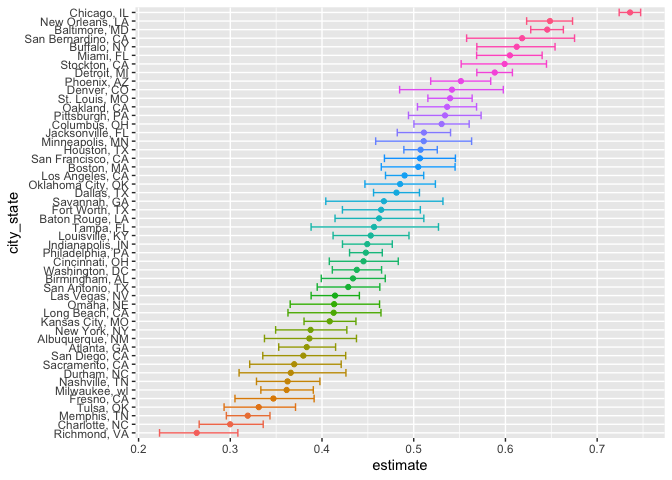
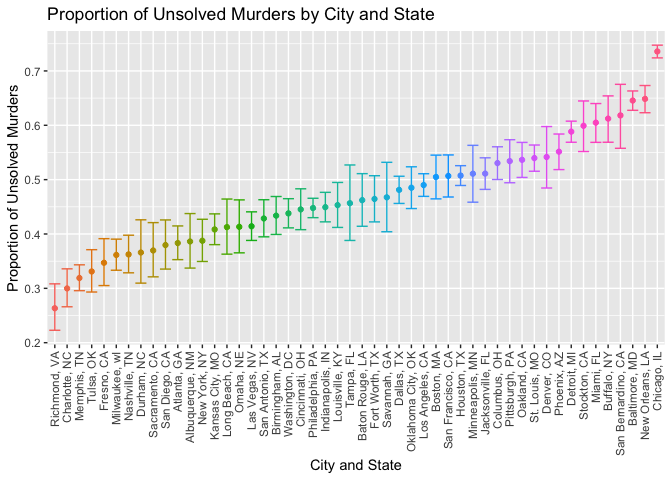
tidied code in problem 1 and 'unflipped' coordinates

diff --git a/p8105_hw5_lzs2109.md b/p8105_hw5_lzs2109.md
@@ -7,7 +7,7 @@ Louis Sharp
 library(tidyverse)
 ```
 
-### **Problem 1**
+### Problem 1
 
 ``` r
 homicide_df = read_csv("./data/homicide-data.csv") %>% 
@@ -62,13 +62,15 @@ bmore =
   homicide_df %>%
   filter(city_state == "Baltimore, MD") %>%
   group_by(status) %>% 
-  count()
+  count() %>% 
+  pivot_wider(names_from = "status", values_from = "n") %>% 
+  mutate(total = sum(solved, unsolved))
 
-bmore = prop.test(x = bmore$n[2], n = bmore$n[1] + bmore$n[2])
+bmore = prop.test(x = pull(bmore, unsolved), n = pull(bmore, total))
 
 bmore %>% 
   broom::tidy() %>% 
-  select(estimate, conf.low, conf.high)
+  select(estimate, starts_with("conf"))
 ```
 
     ## # A tibble: 1 × 3
@@ -76,68 +78,57 @@ bmore %>%
     ##      <dbl>    <dbl>     <dbl>
     ## 1    0.646    0.628     0.663
 
+There’s the Baltimore, MD proportion of unsolved homicides, along with
+lower and upper confidence intervals. We’ll use that code above in a
+more general form to make a function that can calculate this with any
+city in the homicide\_df dataframe below.
+
 ``` r
 unsolved_murders = function(location) {
   
   city = homicide_df %>% 
            filter(city_state == location) %>%
            group_by(status) %>% 
-           count()
+           count() %>% 
+           pivot_wider(names_from = "status", values_from = "n") %>% 
+           mutate(total = sum(solved, unsolved))
   
-  city = prop.test(x = city$n[2], n = city$n[1] + city$n[2])
+  city = prop.test(x = pull(city, unsolved), n = pull(city, total))
   
   city %>% 
     broom::tidy() %>% 
-    select(estimate, conf.low, conf.high)
+    select(estimate, starts_with("conf"))
   
 }
 
-unsolved_murders("Atlanta, GA")
+#unsolved_murders("Atlanta, GA")
+#unsolved_murders("San Francisco, CA")
 ```
 
-    ## # A tibble: 1 × 3
-    ##   estimate conf.low conf.high
-    ##      <dbl>    <dbl>     <dbl>
-    ## 1    0.383    0.353     0.415
+There’s the function, with a couple of tests commented out just to make
+sure it works on any given city in the data set. Now that we’ve done
+that, we need a list of all the cities in the data set that have the
+appropriate data so that we can iterate over that list of cities and get
+the same info for all of them in one call. Instead of having a vector
+just hanging out, we can nest the original homicide\_df. Also, we’ll
+have to remove Tulsa, AL as it did not have appropriate data (1 solved,
+no unsolved) which broke the prop.test() function.
 
 ``` r
-unsolved_murders("San Francisco, CA")
-```
-
-    ## # A tibble: 1 × 3
-    ##   estimate conf.low conf.high
-    ##      <dbl>    <dbl>     <dbl>
-    ## 1    0.507    0.468     0.545
-
-``` r
-city_states = 
-  homicide_df %>% 
-  nest(cols = -city_state) %>% 
-  select(city_state) %>% 
-  filter(city_state != "Tulsa, AL") %>% 
-  pull()                                      
-  
-#had to remove Tulsa, AL as it did not have appropriate data (1 solved, no unsolved)
-
 unsolved_murders_df = 
-  tibble(
-    city_state = city_states,
-    prop_unsolved = map(city_state, unsolved_murders)
-  ) %>% 
-  unnest() %>% 
-  mutate(city_state = fct_reorder(city_state, estimate))
-```
-
-    ## Warning: `cols` is now required when using unnest().
-    ## Please use `cols = c(prop_unsolved)`
-
-``` r
+  homicide_df %>% 
+  nest(homicide_data = -city_state) %>% 
+  filter(city_state != "Tulsa, AL") %>% 
+  mutate(prop_unsolved = map(city_state, unsolved_murders)) %>% 
+  select(-homicide_data) %>% 
+  unnest(prop_unsolved)
+  
 head(unsolved_murders_df)
 ```
 
     ## # A tibble: 6 × 4
     ##   city_state      estimate conf.low conf.high
-    ##   <fct>              <dbl>    <dbl>     <dbl>
+    ##   <chr>              <dbl>    <dbl>     <dbl>
     ## 1 Albuquerque, NM    0.386    0.337     0.438
     ## 2 Atlanta, GA        0.383    0.353     0.415
     ## 3 Baltimore, MD      0.646    0.628     0.663
@@ -147,10 +138,14 @@ head(unsolved_murders_df)
 
 ``` r
 unsolved_murders_df %>% 
+  mutate(city_state = fct_reorder(city_state, estimate)) %>% 
   ggplot(aes(x = city_state, y = estimate, color = city_state)) +
   geom_point() +
   geom_errorbar(aes(x = city_state, ymin = conf.low, ymax = conf.high)) +
-  coord_flip() +
+  labs(title = "Proportion of Unsolved Murders by City and State",
+       x = "City and State",
+       y = "Proportion of Unsolved Murders") +
+  theme(axis.text.x = element_text(angle = 90, vjust = 0.5, hjust=1)) +
   theme(legend.position = "none")
 ```
 
@@ -224,8 +219,9 @@ na_replacer = function(vec) {
 #na_replacer(vec_num) #testing function on numeric vector 
 ```
 
-Now map this function over the columns of iris\_with\_missing data
-frame.
+Some examples testing the function commented out in the above code
+chunk. Now we’ll map this function over the columns of
+iris\_with\_missing data frame.
 
 ``` r
 iris_without_missing = 
